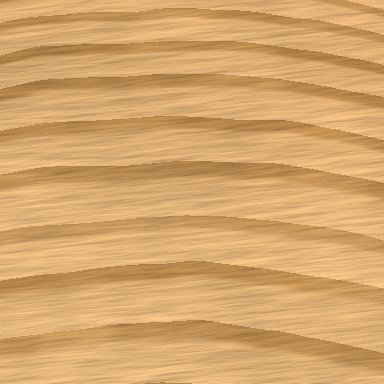
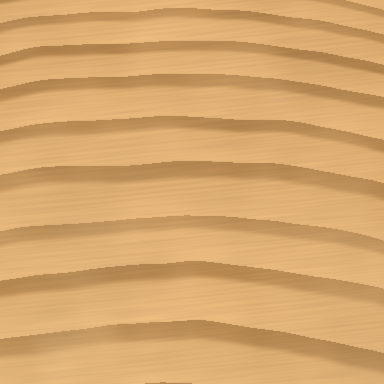
Document the wood optics change and add chatoyance examples
CHANGELOG records the deliberate change of default wood output and the
new shade, height_to_normal and fbm_at parameters. The technical
reference gains Scale-and-filtering and Coat rows, the deferred items
from the triage, the new test module's coverage, and the ray-fleck
mechanism as a second population. README links the chatoyance strips.
The workflow notebook renders curly maple and quartersawn oak under six
light azimuths and shows the render-large-then-resample workflow; every
wood example image is regenerated, the other materials' are unchanged.
The FINISHES comment now matches its data: oil keeps the amber tint.

diff --git a/src/texture_generators/materials/wood.py b/src/texture_generators/materials/wood.py
@@ -235,11 +235,10 @@ BOARD_HUE_SPREAD = 0.6
 #   fibre_tint  colour of the fibre lobe (:func:`_fibre_colour`), normalised to
 #               unit luminance: this light has passed through the film, so it
 #               carries the film's own cast on top of the wood's pigment.
-#               UNVERIFIED: the existing amber kept for the two film
-#               finishes; neutral where there is no film (``none``, and
-#               ``oil`` -- a penetrating finish leaves no continuous film to
-#               cast through); near-neutral for the non-yellowing waterborne
-#               acrylic.
+#               UNVERIFIED: the existing amber kept for oil and polyurethane
+#               (an oil-based finish warms the light it passes, film or not);
+#               neutral for bare wood; near-neutral for the non-yellowing
+#               waterborne acrylic.
 #   film_um     dry film build, in microns, as a (lo, hi) range -- the coat's
 #               own optical state, separate from the CIELAB appearance
 #               fit above: how thick a continuous film sits over the wood,

diff --git a/docs/reference.md b/docs/reference.md
@@ -290,7 +290,7 @@ effect.
 | Wood, paper | `mm_across` | `float`, physical image width in millimetres | Wood draws 150–300 mm and requires a positive value. Paper draws a stock-specific range: white/coated 12–22, kraft 16–30, recycled 13–24, newsprint 14–26, laid 26–44 mm. Controls the capture scale. |
 | Wood, plastic | `specular` | `float` | Surface reflection weight. Wood derives its default from the chosen finish; plastic draws by variant: glossy 0.5–0.8, matte 0.1–0.2, textured 0.18–0.35. Local gloss still modulates the supplied weight. |
 | Wood, plastic | `shininess` | `float` | Surface highlight exponent; larger values sharpen it. Wood derives its default from the finish; plastic draws glossy 60–120, matte 6–10, textured 14–30. |
-| Wood, plastic, paper | `normal_strength` | `float` | Strength of relief in shading. Wood draws 1.1–2.2; plastic draws glossy 0.5–1.1, matte 1.5–3.0, textured 1.4–2.6. Paper defaults to 1.0 and applies it to the diffuse normal. |
+| Wood, plastic, paper | `normal_strength` | `float` | Wood: an exaggeration factor on the board's *physical* slopes — 1.0 renders the true slope the millimetre-scale height field describes; draws 1.1–2.2, since a board this flat in true millimetres still needs a little exaggeration to read as relief on a flat texture map. Plastic draws glossy 0.5–1.1, matte 1.5–3.0, textured 1.4–2.6, on an arbitrary (not physical) normalised range. Paper defaults to 1.0 and applies it to the diffuse normal. |
 | Wood | `species` | `str`: `pine`, `maple`, `ash`, `oak`, `cherry`, `walnut`, `sapele`, `mahogany`; or `None` | Omitted/`None`: uniform seeded choice. One species for the whole panel. |
 | Wood | `finish` | `str`: `none`, `oil`, `polyurethane`, `acrylic`; or `None` | Omitted/`None`: seeded choice with probabilities 0.06, 0.30, 0.40, 0.24 respectively. The finish class is shared across a panel; its colour-change magnitude varies per board. |
 | Wood | `colour_variation` | `float` | Defaults to 1.0. Scales the board-to-board colour spread and ageing contribution; 0 starts from the nominal species colour. Finishing and surface features still apply. |
@@ -300,7 +300,7 @@ effect.
 | Wood | `ring_sigma` | `float`, or `None` | Standard deviation of log ring widths. Omitted/`None`: a seeded draw from the species' porosity-class range, between 0.22 and 0.35. Larger values increase ring-width variation. |
 | Wood | `figure` | `str`: `plain`, `curly`, `ribbon`; or `None` | Omitted/`None`: usually plain, with occasional curly maple and curly/ribbon sapele. Shared across a panel; controls the fibre reflection pattern. Explicit choices work for every species. |
 | Wood | `cut` | `str`: `cathedral`, `flatsawn`, `quartersawn`; or `None` | Omitted/`None`: each board draws a cut with probabilities 0.35, 0.45, 0.20 respectively. Controls ring geometry; quartersawn exposes ray fleck where the species supports it. |
-| Wood | `light_dir` | Three floats `(x, y, z)` | Defaults to `(-0.5, -0.55, 0.78)`, pointing towards the light. Change it to inspect chatoyance under another lighting direction. |
+| Wood | `light_dir` | Three floats `(x, y, z)` | Defaults to `(-0.5, -0.55, 0.78)`, pointing towards the light. Change it to inspect chatoyance under another lighting direction — the [workflow notebook](../examples/texture_generator_workflow.ipynb) renders one board under six light azimuths side by side ("Wood chatoyance") to show the effect. |
 | Paper | `extinction` | `float` | Optical extinction per layer of fibre coverage; larger values make each layer more opaque. Defaults: white/laid/coated 0.55, kraft 0.45, recycled 0.50, newsprint 0.40. |
 | Paper | `creases` | `float`, or `None` | Omitted/`None`: a stock-dependent chance of a crease, with a seeded strength of 0.35–1.0 when present. Set 0.0 for a seamless sheet; positive strengths above 0.02 add creases. |
 | Paper | `ambient` | `float` | Defaults to 0.62. Adjusts the ambient contribution to lighting; the sheet's lighting is still normalised to its mean. |
@@ -408,8 +408,10 @@ pore and fibre texture dominates and the ring arcs are secondary.
 | **Pores / vessels** | The single biggest win. On a flatsawn face you do not see pores as dots — the saw cuts each vessel tube lengthwise, so you see **axial streaks**, and that is what a laminate physically cannot have. Streak length is *geometric*, not anatomical: for a vessel of diameter `d` at out-of-plane angle `θ`, `L ≈ d/tan θ`, and since θ varies the lengths come out strongly **right-skewed** (measured median 4.4 mm, p90 14.5, p99 42, skew 4.6). Sizing streaks from vessel-*element* length is a known mistake that makes them 10× too short — a vessel is many elements fused and runs decimetres. Written to albedo **and** height, since an open pore is a trough that catches light |
 | Porosity class | Ring-porous oak/ash put 2–4 rows of coarse vessels in a band at each ring start, and **that band is a fixed 0.5–1.5 mm regardless of ring width** — a wide ring means more latewood, not a wider pore band. Semi-ring-porous walnut tapers over 30–60 % of the ring; diffuse-porous cherry/maple/sapele/mahogany are uniform. **`pine` has no vessels at all**, and that absence is what makes a softwood read as a softwood |
 | Colour | Eight species in **CIELAB** (rendered means land within 0.13/255 of their nominal Lab), with the lighting normalised to its own mean so the render *is* the specified colour. Earlywood→latewood is a ΔL\* offset; measured 20.5 softwood / 12.8 ring-porous / 6.3 semi / 4.5 diffuse — strong in softwoods and ring-porous hardwoods, weak in diffuse-porous ones, as it should be |
-| Finish | Finishing is not a tint: raw wood's air/cell-wall interface (n 1.00 → 1.53) scatters light back as a white veil, and a finish index-matches it away. Applied in CIELAB — oil ΔL\* −8 / ΔC\* +8, polyurethane −6/+9, acrylic −4/+4 |
-| **Chatoyance** | Aligned fibres reflect anisotropically, so wood's luster shifts with angle. The fibre-tangent field is **the gradient of the same domain warp that bends the rings** — following Liu et al., *Simulating the Structure and Texture of Solid Wood* (ACM TOG 35(6), 2016), where the fibre directions "follow naturally from the distortions", so no second figure system is needed. Shaded with **two lobes**: a sharp isotropic surface lobe from the finish film over a soft anisotropic fibre lobe coloured `albedo**0.5`. That layering is what gives a polished panel depth |
+| Scale and filtering | Height is carried in real **millimetres**, not normalised, and `height_spacing` (`1/px_per_mm`) makes every normal resolution-independent, so a board's slopes are the same whatever pixel size it is rendered at rather than a per-texel gradient that got steeper as the render grew. Relief sums latewood's proud band (`LATEWOOD_RELIEF_MM`, 30 µm), fine grain streaks (`STREAK_RELIEF_MM`, fbm std ~0.25 → ~8 µm RMS) and broad machining waviness (`WAVINESS_MM`), minus the pore troughs — all three amplitudes are **UNVERIFIED** working figures, not profilometry. The fine-streak fbm's across-grain frequency is no longer clamped to the sampling grid; instead `fbm_at`'s `max_freq` fades out whatever octave the grid cannot carry (the sampling Nyquist), dropping that energy rather than re-authoring it at the grid's own pitch. Sub-pixel pores are carried as **coverage**, not re-drawn full-contrast dashes: a vessel narrower than a texel is drawn at the grid's own width and faded so the mean coverage matches the anatomy (see *Notes and limits* for the fine-vesselled-species caveat this leaves). All three are what the **mip test** (`test_a_small_render_matches_a_downsampled_large_one`) checks: a small direct render and a large render box-downsampled in linear light must agree in mean and contrast — before this change a direct 500px oak render's luminance std (12.99) sat 33% above an equivalent 2000px downsample's (9.77); after, 7.58 vs 7.93 |
+| Finish | Finishing is not a tint: raw wood's air/cell-wall interface (n 1.00 → 1.53) scatters light back as a white veil, and a finish index-matches it away. This is a **fitted CIELAB appearance approximation**, applied in CIELAB — oil ΔL\* −8/ΔC\* +8, polyurethane −6/+9, acrylic −4/+4 — and it carries no physical darkening of its own; the finish's actual optics (film build, refractive index, fibre tint) are separate, explicit state, described in **Coat** below |
+| Coat | A finish is two separate states. Per board, a **film build** (`film_um`, a `(lo, hi)` microns range per finish) self-levels over the wood's relief — `coat_height = height + clip(blur(height, COAT_LEVEL_MM) - height, 0, film_mm)` — and pools a pore no deeper than it is built. The **coat normal** (from `coat_height`) drives the *surface* specular lobes only; the diffuse term, cavity and the fibre/ray lobes always use the substrate normal, since light reaching the fibres has already crossed the film. A per-finish **refractive index** (`ior`) refracts the light into that film before the fibre and ray lobes see it. A per-finish **fibre tint** colours the fibre lobe for the light that has passed through the film. Provenance, all **UNVERIFIED**: `film_um` none/oil (0, 0) [a penetrating finish leaves no continuous film]; acrylic (25, 60), polyurethane (50, 110) [trade figures for 2-3 coats]; `ior` 1.0 where there is no film, 1.50 for acrylic/polyurethane [the conventional generic-finish value of rendering practice, not a measured cured-film index]; `fibre_tint` neutral for bare wood, near-neutral for the non-yellowing acrylic, amber for oil and polyurethane [the existing amber, kept because an oil-based finish warms the light it passes, film or not] |
+| **Chatoyance** | Aligned fibres reflect anisotropically, so wood's luster shifts with angle. The fibre-tangent field is **the gradient of the same domain warp that bends the rings** — following Liu et al., *Simulating the Structure and Texture of Solid Wood* (ACM TOG 35(6), 2016), where the fibre directions "follow naturally from the distortions", so no second figure system is needed. Shaded with **two lobes**: a sharp, mostly isotropic surface lobe from the finish film (shaded off the **coat** normal above) over a soft anisotropic fibre lobe coloured `sqrt(albedo)` and tinted by the finish. The light reaching that fibre lobe is refracted into the coat first (`fibre_ior`), which moves its peak dip from −15.0° to −9.3° under the default light at n 1.5. Ray fleck rides a **second, crosswise fibre population** mixed into the same lobe by weight (`ray_tangent`/`ray_weight`/`ray_gain`), not a rotation of the grain texture — see **Ray fleck** below. That layering is what gives a polished panel depth. The [workflow notebook](../examples/texture_generator_workflow.ipynb) renders one curly maple board and one quartersawn oak board under six light azimuths side by side ("Wood chatoyance") to show it moving |
 
 Species anatomy, colour and BRDF figures are largely **calibration assumptions
 from the trade and anatomical literature rather than measurements of these
@@ -419,11 +421,23 @@ derived geometry, not a published figure.
 | Stage | What it does |
 | --- | --- |
 | **Ray fleck** | Ray tissue is **~17 % of hardwood xylem** (some species over 30 %) and rays run *radially*, so their appearance flips between faces. The cut is now explicit — `cathedral` / `flatsawn` / `quartersawn` — and on a **quartersawn** face the rays are sliced along their length and exposed as broad sheets: **ray fleck**, the figure of "tiger oak". Lens-shaped, tapering at both ends, measured median 9.6 mm long × 0.40 mm wide at aspect 23:1, right-skewed in length (p90 21 mm, max 55). Gated on species *and* cut, with target coverage ranges: oak 0.10–0.25, maple 0.02–0.06, ash 0.004–0.015, cherry/walnut 0.003–0.012, sapele/mahogany 0.004–0.014, **pine 0.000**, and zero on every non-quartersawn cut |
-| Why it *flashes* | Rays are radial, so on a quartersawn face the ray tissue's fibre direction is perpendicular to the axial grain. Inside a fleck the tangent field is therefore **rotated 90°** (measured: 80.5° inside vs 0.02° outside, softened by the mask ramp), which puts the fleck crosswise in the anisotropic fibre lobe and makes it light up and go dark as the light moves. Ray fleck is a chatoyance effect, not a pigment one — the albedo contrast is only ΔL\* 3–8 and the rotation does the work |
+| Why it *flashes* | Rays are radial, so on a quartersawn face the ray tissue's fibre direction is perpendicular to the axial grain. The ray tissue is therefore a **second fibre population** with its own axis — the fibre's in-plane angle turned 90°, lying in the face with no dip — and inside a fleck the fibre lobe is a mixture of the two populations weighted by the fleck mask (`ray_tangent`, `ray_weight`, `ray_gain` 1.25), rather than a rotation of the grain axis, which would invent diagonal fibres on the fleck's rim and hand the rays the fibre's dip. That crosswise lobe is what makes a fleck light up and go dark as the light moves. Ray fleck is a chatoyance effect, not a pigment one — the albedo contrast is only ΔL\* 3–8 and the second population does the work |
 
-Not yet modelled: the volumetric 3-D field of Liu et al. that would make
-flatsawn, quartersawn and end grain all fall out of one model instead of being
-separate cases.
+Not yet modelled, deliberate deferrals recorded in the design triage rather
+than omissions: exact Fresnel/Schlick reflectance at the fixed view (measured
+as a no-op — `F(wi.h)` differs from `F0 = 0.04` by under 1.3% at the 99.9th
+percentile across the `normal_strength` range, so `FINISH_F0` stays the
+conventional n 1.5 starting point rather than a per-pixel Fresnel term);
+anisotropic GGX + Smith for the finish lobe (the Blinn-Phong/Ward-style blend
+is kept — at a fixed +z view the tail difference between the two is only ever
+exercised by relief slopes, where it is invisible); Beer-Lambert film
+absorption (no film-thickness/absorption field exists; the film's amber cast
+already lives in the fitted CIELAB Δb\* and the per-finish fibre tint, and
+stacking a Beer term on top of both would double-count it); a full BSSRDF or
+volume light-transport model, or integrator tiers generally (this is a
+fixed-view flat texture map, not a renderer); and the volumetric 3-D solid-wood
+field of Liu et al. that would make flatsawn, quartersawn and end grain all
+fall out of one model instead of being separate cases.
 
 ## How paper works
 
@@ -528,16 +542,16 @@ b\* −2, and recycled is a warm low-chroma grey rather than a dead neutral.
 
 | Module | Contents |
 | --- | --- |
-| `core/noise.py` | `gradient_noise`, `fbm`, `ridged` (+ `*_at` variants for arbitrary coordinate arrays); vectorised Perlin-style lattice noise with quintic fade and anisotropic `(freq_x, freq_y)` support. The gradient lattice is sized to the coordinates actually sampled, so tall canvases and warped/ring coordinates never band-repeat; a per-axis `periodic` flag restores unit wrapping where it is wanted (radial metal's θ axis) |
+| `core/noise.py` | `gradient_noise`, `fbm`, `ridged` (+ `*_at` variants for arbitrary coordinate arrays); vectorised Perlin-style lattice noise with quintic fade and anisotropic `(freq_x, freq_y)` support. The gradient lattice is sized to the coordinates actually sampled, so tall canvases and warped/ring coordinates never band-repeat; a per-axis `periodic` flag restores unit wrapping where it is wanted (radial metal's θ axis). `fbm_at`'s optional `max_freq` band-limits the sum to the sampling grid's own Nyquist frequency, fading out (not aliasing) whatever octave the grid cannot carry; every octave is still drawn and the amplitude normalisation is unchanged, so dropped energy stays dropped rather than being redistributed onto the octaves that remain |
 | `core/worley.py` | `worley` → `(F1, F2)` from a jittered feature grid sized to the sampled domain, 3×3 neighbourhood scan, `stretch` for elongated cells, euclidean/manhattan/chebyshev metrics |
 | `core/warp.py` | `warp` (`p' = p + A·W(p)` from two independent fbm fields), `double_warp`, `rotate` |
-| `core/fields.py` | `normalize01`, `remap`, `smoothstep`, `height_to_normal`, `blur`, `draw_segments` (PIL-rasterised signed line scatter) |
+| `core/fields.py` | `normalize01`, `remap`, `smoothstep`, `height_to_normal`, `blur`, `draw_segments` (PIL-rasterised signed line scatter). `height_to_normal`'s `spacing` argument is the physical distance between height samples, so the same surface yields the same normal whatever grid it is sampled on; `1.0` (the default) reproduces the historical per-texel gradient exactly |
 | `core/spectral.py` | `matern_field`, `band_field`, `shaped_noise`, `freq_grid`, `resize_periodic` — noise built by shaping white noise in Fourier space. fBm is scale-free; the Matérn/von Kármán spectrum `S(k) = (1 + (2πλk)²)^−(ν+1)` has a *characteristic* scale and an exponential autocorrelation at ν = 0.5, which is what measured paper formation has. FFT filtering also makes these fields tile exactly. `resize_periodic` resamples such a field by zero-padding or cropping its spectrum — exact for content the field can hold (up then back down is an identity to float error, Nyquist bins included), and unlike bilinear it keeps the result seamless, which is what lets the expensive LIC felt be computed small and scaled up. The felt *scaling* is still approximate, but because of the smaller canvas' Nyquist limit and a clamped kernel length, not because of the resize |
 | `core/fibres.py` | `deposit`, `count_for_coverage`, `cluster_points`, `axial_von_mises` — stochastic fibre networks: worm-like-chain centrelines with Poisson kinks, Matérn-cluster placement, and sub-pixel mass accumulated by bilinear splatting via `np.bincount` (an order of magnitude faster than `np.add.at`), wrapping at the edges |
 | `core/lic.py` | `direction_field`, `lic`, `felt`, `slope_blur` — Line Integral Convolution (Cabral & Leedom '93): white noise smeared along the streamlines of a smooth heading field, which correlates pixels *along* the flow and leaves them independent *across* it. That is the signature of a fibrous surface, and the right tool below the resolvable-fibre scale where depositing fibres one by one is both wasteful and wrong. Direction is treated as an **axis**, not an arrow (interpolated in the doubled angle, sign resolved against the walk's own heading) — get that wrong and streamlines fold back, the integral collapses to a local average, and the result is a mushy blotch with no filaments in it. `felt` blends octaves for a mixed furnish and sums `layers` **independently oriented** stacks, which is what separates a felt from combed hair |
 | `core/colour.py` | `lab_to_linear_rgb`, `lab_to_srgb`, `srgb_to_linear`, `linear_to_srgb`, and the inverses `linear_rgb_to_lab`/`srgb_to_lab` — CIELAB is how paper *and* wood colour is actually specified, translucent fibres must composite in linear light, and the inverse is how a rendered colour gets checked against the measurement it came from (a ΔL\*, not a few display levels) |
 | `core/film.py` | `FilmSystem`, `SYSTEMS`, `film_table`, `film_tint`, `wavelength_rgb` — thin-film interference integrated over 36 wavelengths from 380–730 nm against the CIE 1931 observer, then stored in a thickness/angle lookup table. Spectral integration avoids the aliasing of a three-wavelength RGB approximation; `wavelength_rgb` supplies the groove-diffraction colour |
-| `core/shading.py` | `shade(...)` — Lambert diffuse over height-derived normals with a high (slightly sky-directional) ambient floor, Blinn-Phong specular with Ward-style anisotropic lobe; `specular`/`shininess` accept per-pixel `(H, W)` arrays (ring gloss, pass bands, smudges), `spec_tint` tints the highlight towards the albedo for conductors (with Schlick whitening on steep micro-slopes), `specular2`/`shininess2` add a second tight clearcoat lobe, `cavity` darkens local concavities, and `normalise` (**off by default**, on only for wood) divides the lighting by its own mean so a measured albedo survives the shading pass. `shade_translucent(...)` shades a thin scattering sheet with **two** normals — blurred for diffuse (the subsurface point-spread radius), sharp for sheen — with Oren–Nayar roughness, wrap diffuse, and mean-normalised lighting; `gaussian_blur` is the separable wrap-around blur both use |
+| `core/shading.py` | `shade(...)` — Lambert diffuse over height-derived normals with a high (slightly sky-directional) ambient floor, Blinn-Phong specular with Ward-style anisotropic lobe; `specular`/`shininess` accept per-pixel `(H, W)` arrays (ring gloss, pass bands, smudges), `spec_tint` tints the highlight towards the albedo for conductors (with Schlick whitening on steep micro-slopes), `specular2`/`shininess2` add a second tight clearcoat lobe, `cavity` darkens local concavities, and `normalise` (**off by default**, on only for wood) divides the lighting by its own mean so a measured albedo survives the shading pass. `height_spacing` scales every gradient computed inside `shade`, so a board's normals are resolution-independent rather than per-texel. `coat_height` swaps in a second, smoother normal field for the surface lobes only, for a self-levelling film sitting over a rougher substrate. `fibre_ior` refracts the light into that film before the fibre and ray lobes see it, so a coated finish's chatoyance peaks at a different angle than bare wood's. `ray_tangent`/`ray_weight`/`ray_gain` mix a second, crosswise fibre population into the fibre lobe by weight rather than by rotating the tangent field, for wood's ray fleck. `shade_translucent(...)` shades a thin scattering sheet with **two** normals — blurred for diffuse (the subsurface point-spread radius), sharp for sheen — with Oren–Nayar roughness, wrap diffuse, and mean-normalised lighting; `gaussian_blur` is the separable wrap-around blur both use |
 
 Randomness flows through a single `np.random.default_rng(seed)`; no module
 touches the global `np.random` state.
@@ -571,6 +585,19 @@ spectral field statistics, LIC orientation and kernel length, per-variant RMS
 slope against its measured target, and `laid`'s wire pitch as an FFT line —
 which is most of the ~2 minutes the suite takes. Tests run against the
 installed package (src layout), so install editable first.
+
+`tests/test_wood_optics.py` covers the wood-optics change specifically: axial
+sign invariance, coat/fibre lobe separation, figure surviving a flattened
+albedo, the `finish="none"` zero-coverage case, pore pooling under a film,
+refraction of the fibre-lobe peak, ray-population isolation, band-limited
+noise, linear-light compositing and the mip (small-direct-render-vs-
+downsampled-large-one) sweep, each checked against a closed-form oracle or an
+exact invariant rather than the implementation's own output. It documents what
+a fixed-view, 2-D texture generator cannot validate: reciprocity, the
+white-furnace check, Snell across total internal reflection, grazing
+bump-vs-displacement parallax, angular hold-out/reference-path convergence,
+and Beer-law film-absorption monotonicity, since no thickness/absorption field
+exists here for it to hold against.
 
 ## Development
 
@@ -660,3 +687,10 @@ felt variants inside twice the cost of the others rather than four times.
   (`sin`/`cos` rounding at the float32 boundary).
 - Peak memory scales with area: noise evaluation holds several full-frame
   intermediates, roughly a few hundred MB transiently at 2048×2048.
+- Wood's sub-pixel vessels are carried as area-honest coverage (see *Scale and
+  filtering*), but that trades away a photograph's own per-pixel variance:
+  fine-vesselled species (cherry, maple, mahogany), whose vessels are narrower
+  than a texel at any sane render size, render their pores as the uniform tone
+  the grid can carry, not the Poisson-distributed per-pixel variance a
+  photograph at 0.1 mm per pixel would show. That variance is deferred, not
+  modelled.

diff --git a/CHANGELOG.md b/CHANGELOG.md
@@ -13,6 +13,49 @@ and this project adheres to [Semantic Versioning](https://semver.org/spec/v2.0.0
   rendered with the other parameters pinned so the tiles differ only by species.
   This is documentation and examples only; the generator, public API and rendered
   output for existing recipes are unchanged.
+- `core/shading.py`'s `shade()` gains `height_spacing`, `coat_height`,
+  `fibre_ior` and `ray_tangent`/`ray_weight`/`ray_gain`, all wired through
+  `materials/wood.py` for the changes below. `core/fields.py`'s
+  `height_to_normal()` gains `spacing`. `core/noise.py`'s `fbm_at()` gains
+  `max_freq`. Every new parameter defaults to the exact pre-existing code
+  path (`1.0`, `None` or `0`, as appropriate), which
+  `test_shade_defaults_are_bit_identical_with_the_new_parameters` checks
+  directly.
+- `tests/test_wood_optics.py`, validating the wood-optics change below against
+  closed-form oracles rather than the implementation's own output: axial sign
+  invariance, coat/fibre lobe separation, figure surviving a flattened albedo,
+  the `finish="none"` zero-coverage case, pore pooling under a film, refraction
+  of the fibre-lobe peak, ray-population isolation, band-limited noise, linear-
+  light compositing and the mip (small-direct-render-vs-downsampled-large-one)
+  sweep.
+
+### Changed
+
+- **Default wood output changes**, deliberately, for five reasons. Shading now
+  composites in linear light rather than display sRGB: the rendered means are
+  unchanged (the lighting is mean-normalised), but relief and highlight
+  contrast on pale species are slightly lower. Relief is now carried in real
+  millimetres with resolution-independent normals (`height_spacing`) instead
+  of a per-texel gradient that changed with render size, so a small render now
+  matches a downsampled large one — on a 200 mm oak board a direct 500px
+  render's luminance std (12.99) sat 33% above an equivalent 2000px
+  downsample's (9.77); after this change they agree to within 5% (7.58 vs
+  7.93). Each finish now carries explicit coat state: a film build that fills
+  pores and levels the coat normal, a refractive index that refracts the
+  light before the fibre lobe, and a fibre-lobe tint; `finish="none"`
+  recovers the bare board exactly. The ray-fleck lobe is now a second fibre
+  population mixed in by weight, rather than a 90-degree rotation of the
+  grain texture. And sub-pixel pores are now carried as area-honest coverage:
+  a vessel narrower than a texel is drawn at the grid's own width and faded so
+  the drawn area matches its anatomy, instead of being re-authored at full
+  contrast at whatever pitch the board happens to be rendered at.
+  `generate()`'s signature and the CLI are unchanged; metal, plastic and paper
+  render byte-identically.
+- One honest limitation of the area-honest pore change above: fine-vesselled
+  species (cherry, maple, mahogany), whose vessels are narrower than a texel
+  at any sane render size, now render their pores as the uniform tone the
+  grid can carry, without the per-pixel Poisson variance a photograph at
+  0.1 mm per pixel would show. That variance is deferred, not modelled.
 
 ### Fixed
 

diff --git a/README.md b/README.md
@@ -117,7 +117,11 @@ The generators combine noise, material anatomy and lighting. Albedo, height and
 roughness share underlying fields so visible features also affect shading.
 These are procedural approximations with documented calibration assumptions.
 Metal, plastic and wood do not tile seamlessly; paper tiles when creases are
-disabled with `creases=0.0`.
+disabled with `creases=0.0`. Wood's relief is carried in real millimetres, so
+the same board shades the same at any render size; the documented workflow is
+to render at 1000 px or more and resample down, which is what
+[the mip test](https://github.com/nmpowell/texture-generator/blob/main/tests/test_wood_optics.py)
+checks.
 
 Read the
 [technical reference](https://github.com/nmpowell/texture-generator/blob/main/docs/reference.md)
@@ -172,6 +176,13 @@ Boards and planks are rendered in eight species. These tiles share seed 42 at
 | <img src="https://raw.githubusercontent.com/nmpowell/texture-generator/main/examples/images/species/wood-pine.png" alt="Pine wood texture" width="160" height="160"> | <img src="https://raw.githubusercontent.com/nmpowell/texture-generator/main/examples/images/species/wood-maple.png" alt="Maple wood texture" width="160" height="160"> | <img src="https://raw.githubusercontent.com/nmpowell/texture-generator/main/examples/images/species/wood-ash.png" alt="Ash wood texture" width="160" height="160"> | <img src="https://raw.githubusercontent.com/nmpowell/texture-generator/main/examples/images/species/wood-oak.png" alt="Oak wood texture" width="160" height="160"> |
 | **Cherry** | **Walnut** | **Sapele** | **Mahogany** |
 | <img src="https://raw.githubusercontent.com/nmpowell/texture-generator/main/examples/images/species/wood-cherry.png" alt="Cherry wood texture" width="160" height="160"> | <img src="https://raw.githubusercontent.com/nmpowell/texture-generator/main/examples/images/species/wood-walnut.png" alt="Walnut wood texture" width="160" height="160"> | <img src="https://raw.githubusercontent.com/nmpowell/texture-generator/main/examples/images/species/wood-sapele.png" alt="Sapele wood texture" width="160" height="160"> | <img src="https://raw.githubusercontent.com/nmpowell/texture-generator/main/examples/images/species/wood-mahogany.png" alt="Mahogany wood texture" width="160" height="160"> |
+
+Wood's chatoyance — the way figured grain flashes light and dark — lives in the
+reflection, not the pigment, so it only shows up once `light_dir` moves. The
+workflow notebook renders one board six times under different light azimuths
+and pastes the tiles into a strip:
+[curly maple](https://raw.githubusercontent.com/nmpowell/texture-generator/main/examples/images/wood-chatoyance-curly-maple.png),
+[quartersawn oak](https://raw.githubusercontent.com/nmpowell/texture-generator/main/examples/images/wood-chatoyance-quartersawn-oak.png).
 
 ### Paper
 

diff --git a/examples/results.md b/examples/results.md
@@ -16,7 +16,7 @@ on the dependency versions and platform. The saved floating-point array is
   "python": "3.14.7",
   "platform": "darwin",
   "architecture": "arm64",
-  "texture-generator": "0.4.0",
+  "texture-generator": "0.5.0",
   "numpy": "2.5.2",
   "pillow": "12.3.0"
 }
@@ -251,6 +251,28 @@ their displayed brightness is not a physical unit.
 384 x 384 · RGB
 
 ![Wood / mahogany](images/species/wood-mahogany.png)
+
+## Wood chatoyance
+
+### Wood / Curly maple — chatoyance under six light azimuths
+
+1566 x 256 · RGB
+
+![Wood / Curly maple — chatoyance under six light azimuths](images/wood-chatoyance-curly-maple.png)
+
+### Wood / Quartersawn oak — chatoyance under six light azimuths
+
+1566 x 256 · RGB
+
+![Wood / Quartersawn oak — chatoyance under six light azimuths](images/wood-chatoyance-quartersawn-oak.png)
+
+## Wood scale
+
+### Wood / oak — rendered at 1536px, resampled to 384px
+
+384 x 384 · RGB
+
+![Wood / oak — rendered at 1536px, resampled to 384px](images/wood-oak-1536-to-384.png)
 
 ## Brushing direction
 
